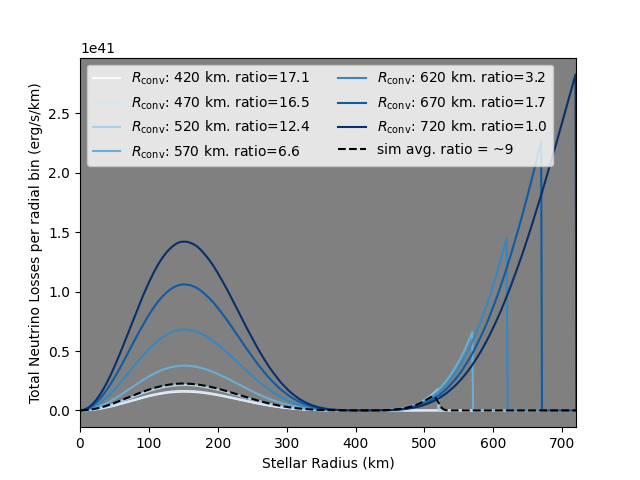
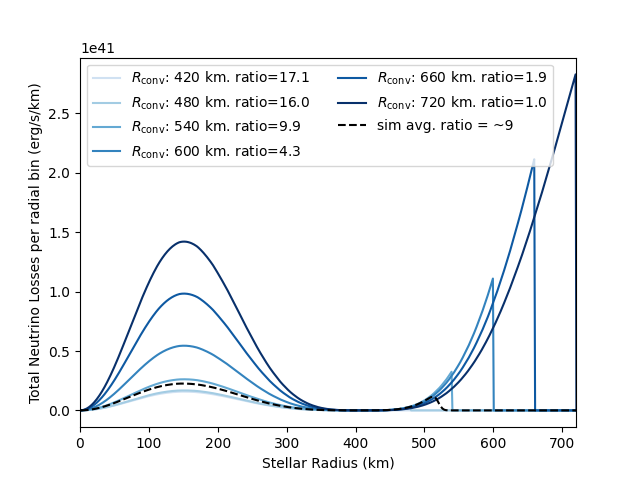
more plotting tweaks

diff --git a/calc_nu_loss.py b/calc_nu_loss.py
@@ -25,17 +25,19 @@ def calc_const_nu_loss(Xne23, Xna23, ecap_nu_loss_arr, bdecay_nu_loss_arr, mass_
 def plot_nu_losses(rad_arr, Rconv_arr, nu_loss_arr, ratio_arr, sample=4):
     fig, ax = plt.subplots(1, 1)
 
-    cmap_range = np.max(Rconv_arr) - np.min(Rconv_arr)
+    min_color = 0.2
+    cmap_range = (1/(1-min_color)) * (np.max(Rconv_arr) - np.min(Rconv_arr))
 
     for i, Rconv in enumerate(Rconv_arr):
-        curr_color = cmap((Rconv - np.min(Rconv_arr))/cmap_range)
+        curr_color = cmap(min_color + (Rconv - np.min(Rconv_arr))/cmap_range)
+        print(min_color + (Rconv - np.min(Rconv_arr))/cmap_range)
         if i % sample:
             pass
 
         else:
-            rconv_str="$R_\\mathrm{conv}$"
+            rconv_str = "$R_\\mathrm{conv}$"
             ax.plot(rad_arr, nu_loss_arr[i, :]/(rad_arr[1] - rad_arr[0]),
-                    color=curr_color, 
+                    color=curr_color,
                     label=f"{rconv_str}: {Rconv:0.0f} km. ratio={ratio_arr[i]:0.1f}")
 
     # plot real sim data
@@ -51,7 +53,7 @@ def plot_nu_losses(rad_arr, Rconv_arr, nu_loss_arr, ratio_arr, sample=4):
     ax.legend(ncols=2)
     ax.set_xlabel("Stellar Radius (km)")
     ax.set_ylabel('Total Neutrino Losses per radial bin (erg/s/km)')
-    ax.set_facecolor('grey')
+    #ax.set_facecolor('beige')
 
     return fig, ax
 
@@ -106,11 +108,11 @@ if __name__ == "__main__":
     ax.hlines(3.32e43, *ax.get_xlim(), colors='tab:orange', label='3D simulation total $\\dot{E}_\\mathrm{nuc}$',zorder=-1)
     ax.legend()
 
-    fig.savefig("nuloss_vs_rconv.png")
+    fig.savefig("figures/nuloss_vs_rconv.png")
 
     figall, _ = plot_nu_losses(rad_arr, Rconv_arr, full_nu_loss_arr, ratio_arr,
-                               sample=5)
-    figall.savefig("full_nu_losses.png")
+                               sample=6)
+    figall.savefig("figures/full_nu_losses.png")
     # save nu loss array data
     np.save("sum_nu_loss.npy", sum_nu_arr)
     np.save("full_nu_loss_v_rad.npy", full_nu_loss_arr)

diff --git a/calc_optimal_ratio_v_Rconv.py b/calc_optimal_ratio_v_Rconv.py
@@ -199,7 +199,7 @@ if __name__ == "__main__":
     fig, ax = plot_results(Rconv_arr, Mconv_arr, out_ratio_arr)
     ax.plot(519, 9, 'x', color='k', label='3D simulation')
     ax.legend()
-    fig.savefig("ratio_vs_rconv.png")
+    fig.savefig("figures/ratio_vs_rconv.png")
 
     # save the arrays
     np.save("rconv_arr.npy", Rconv_arr)
